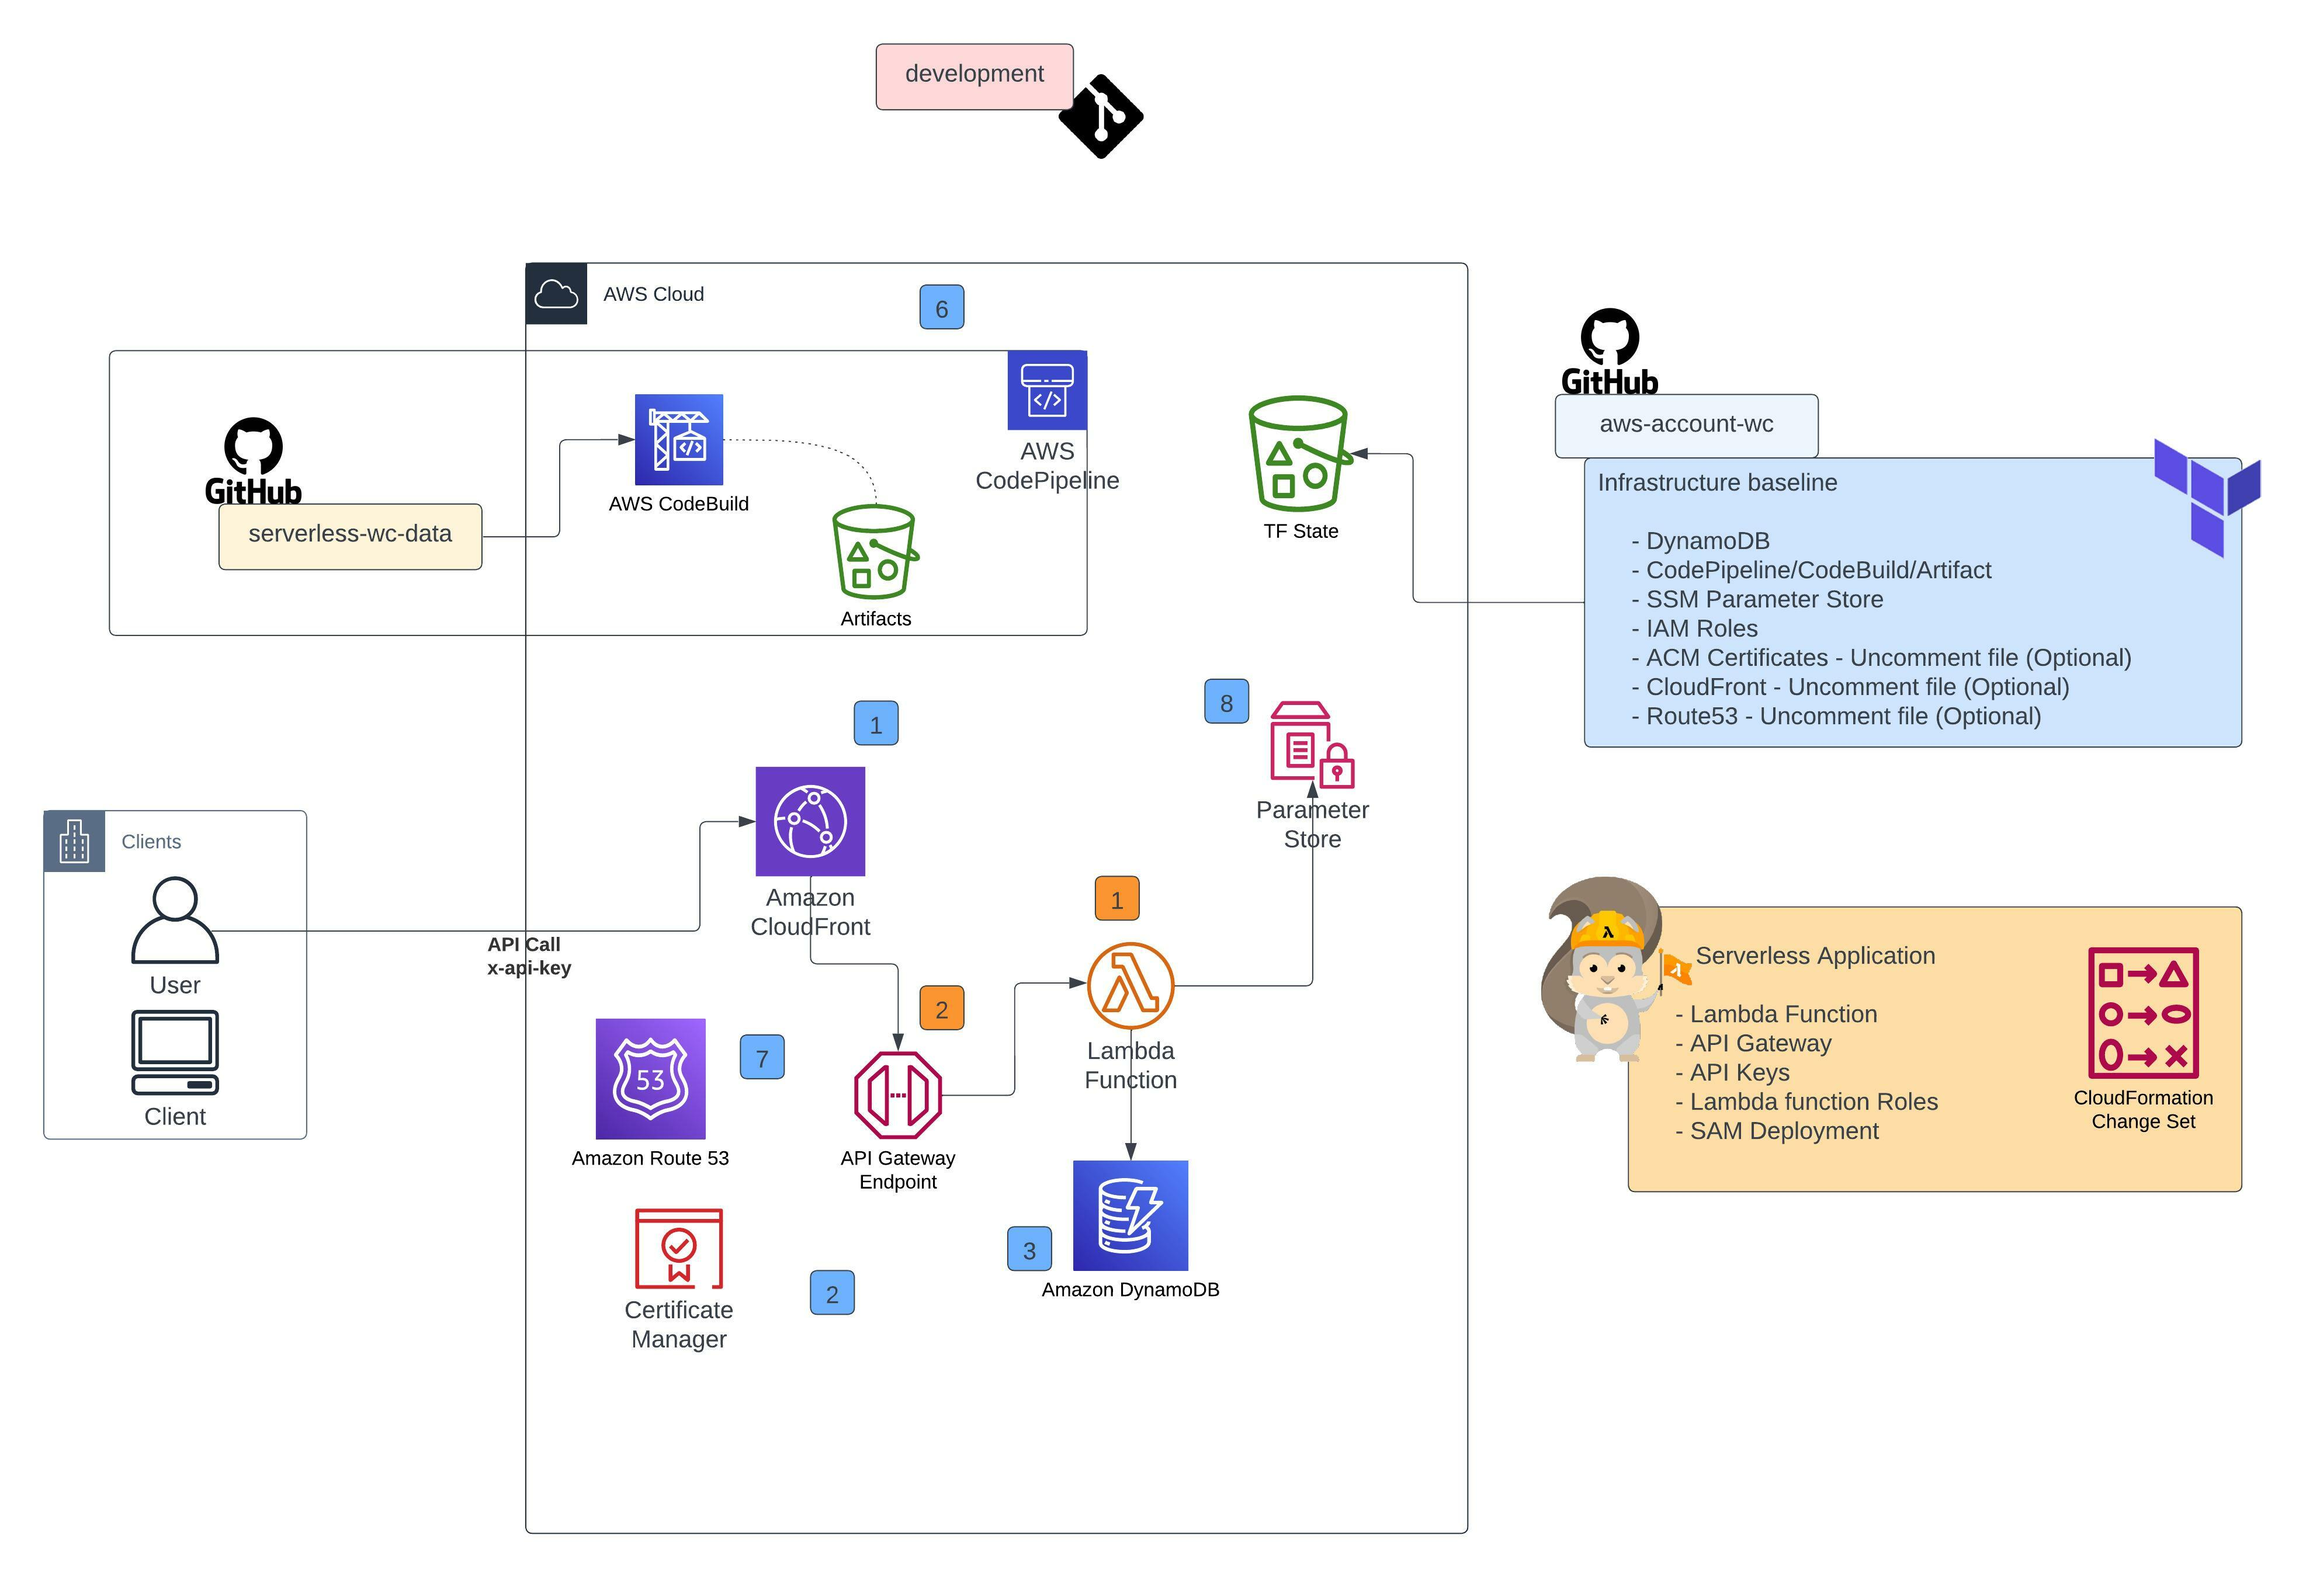
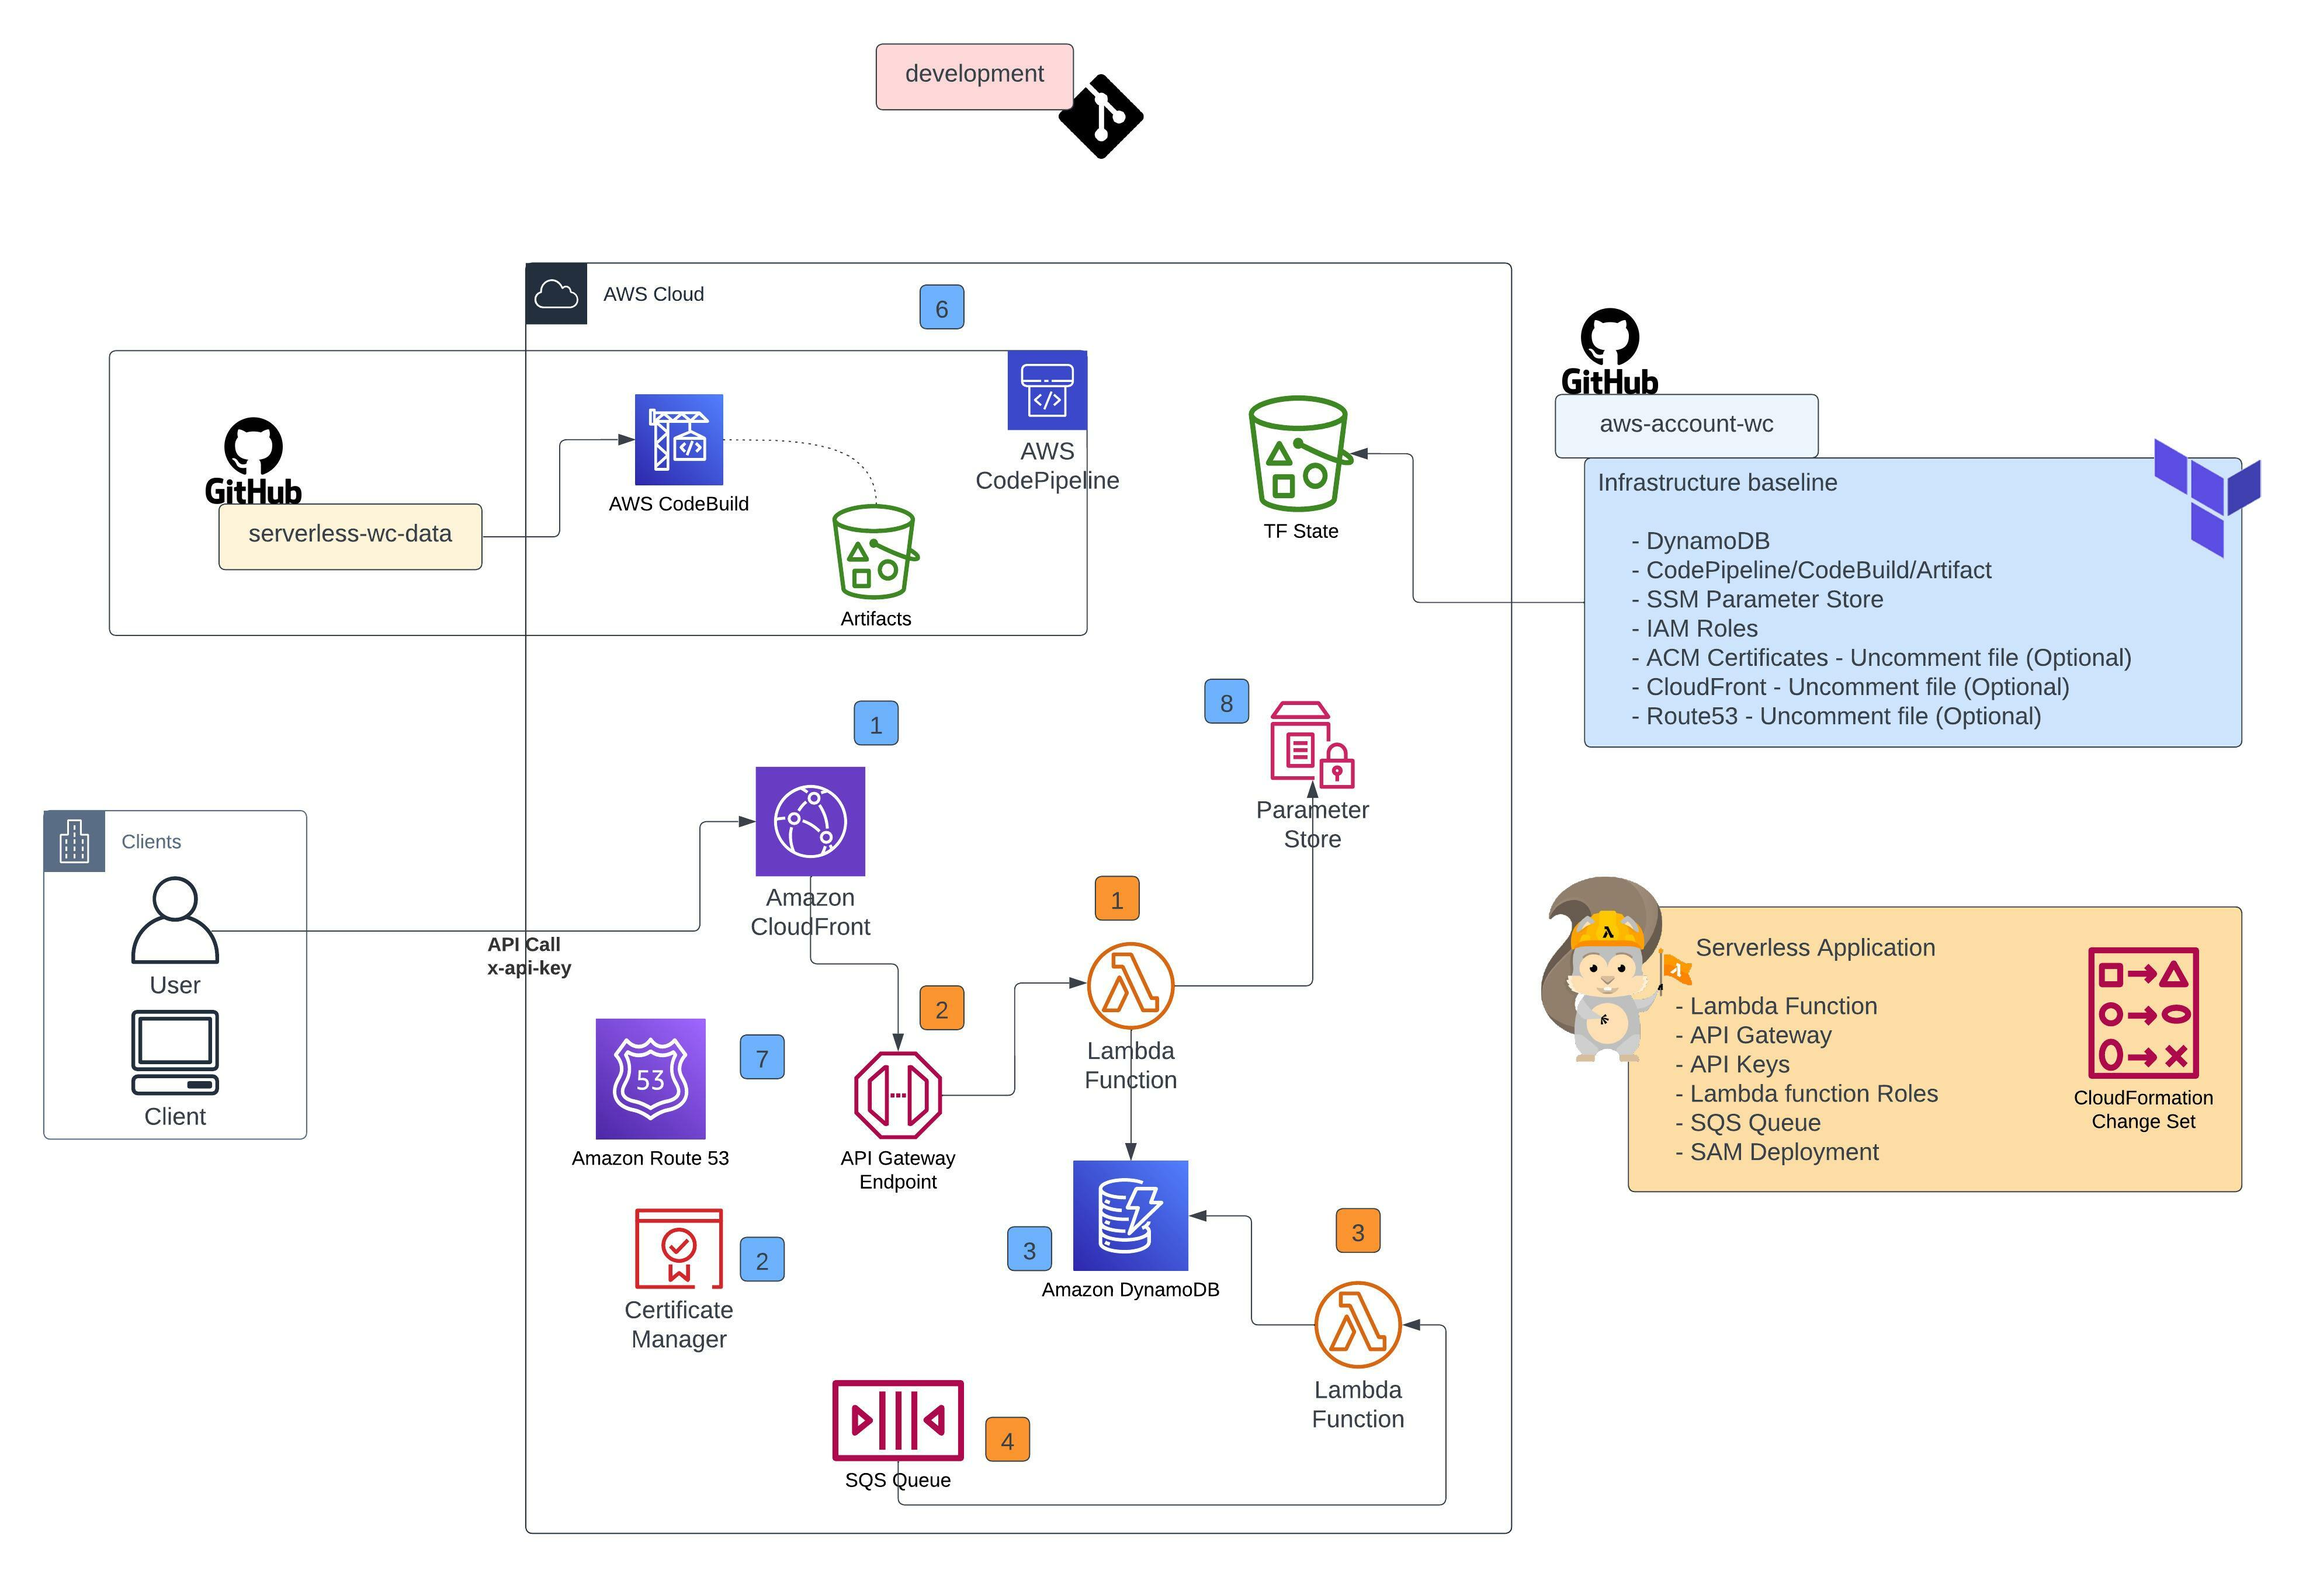
[UPDATE] Including EventMapping Policies for CodeBuild, Architecture diagram Update and Terraform README file updated

diff --git a/terraform/README.md b/terraform/README.md
@@ -21,12 +21,18 @@ No modules.
 | [aws_codebuild_project.worldcup_project](https://registry.terraform.io/providers/hashicorp/aws/latest/docs/resources/codebuild_project) | resource |
 | [aws_codepipeline.codepipeline](https://registry.terraform.io/providers/hashicorp/aws/latest/docs/resources/codepipeline) | resource |
 | [aws_codestarconnections_connection.github](https://registry.terraform.io/providers/hashicorp/aws/latest/docs/resources/codestarconnections_connection) | resource |
-| [aws_dynamodb_table.wctable](https://registry.terraform.io/providers/hashicorp/aws/latest/docs/resources/dynamodb_table) | resource |
+| [aws_dynamodb_table.wcp_table](https://registry.terraform.io/providers/hashicorp/aws/latest/docs/resources/dynamodb_table) | resource |
+| [aws_iam_policy.apigateway](https://registry.terraform.io/providers/hashicorp/aws/latest/docs/resources/iam_policy) | resource |
 | [aws_iam_policy.basepolicy](https://registry.terraform.io/providers/hashicorp/aws/latest/docs/resources/iam_policy) | resource |
+| [aws_iam_policy.cloudformation](https://registry.terraform.io/providers/hashicorp/aws/latest/docs/resources/iam_policy) | resource |
+| [aws_iam_policy.iam_management](https://registry.terraform.io/providers/hashicorp/aws/latest/docs/resources/iam_policy) | resource |
+| [aws_iam_policy.lambda](https://registry.terraform.io/providers/hashicorp/aws/latest/docs/resources/iam_policy) | resource |
+| [aws_iam_policy.sqs](https://registry.terraform.io/providers/hashicorp/aws/latest/docs/resources/iam_policy) | resource |
+| [aws_iam_policy.ssmparam](https://registry.terraform.io/providers/hashicorp/aws/latest/docs/resources/iam_policy) | resource |
 | [aws_iam_role.codebuild](https://registry.terraform.io/providers/hashicorp/aws/latest/docs/resources/iam_role) | resource |
 | [aws_iam_role.codepipeline_role](https://registry.terraform.io/providers/hashicorp/aws/latest/docs/resources/iam_role) | resource |
-| [aws_iam_role_policy.codebuild](https://registry.terraform.io/providers/hashicorp/aws/latest/docs/resources/iam_role_policy) | resource |
 | [aws_iam_role_policy.codepipeline_policy](https://registry.terraform.io/providers/hashicorp/aws/latest/docs/resources/iam_role_policy) | resource |
+| [aws_iam_role_policy_attachment.codebuild](https://registry.terraform.io/providers/hashicorp/aws/latest/docs/resources/iam_role_policy_attachment) | resource |
 | [aws_s3_bucket.codepipeline_bucket](https://registry.terraform.io/providers/hashicorp/aws/latest/docs/resources/s3_bucket) | resource |
 | [aws_s3_bucket_acl.codepipeline_bucket_acl](https://registry.terraform.io/providers/hashicorp/aws/latest/docs/resources/s3_bucket_acl) | resource |
 | [aws_ssm_parameter.secret](https://registry.terraform.io/providers/hashicorp/aws/latest/docs/resources/ssm_parameter) | resource |
